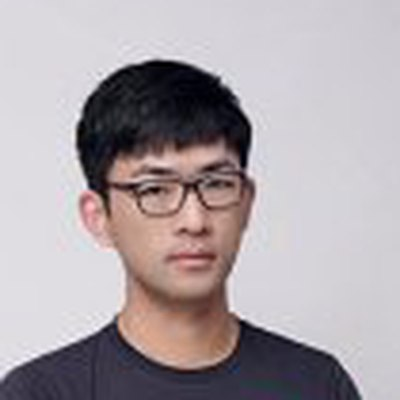
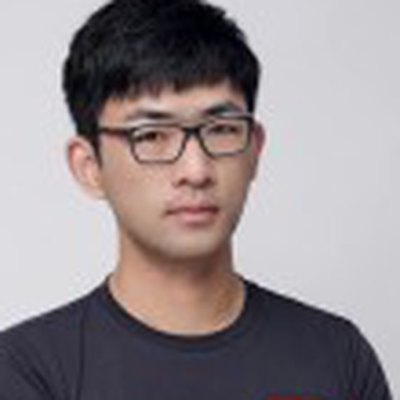
Improve Fan Zhou's photograph from the LinkedIn source
The LinkedIn page returns a login wall but still leaks the profile photo URL,
and only the 200x200 variant is signed, so the larger sizes 403.

It is the same full-body photograph Google Scholar carries, but uncropped and
at slightly better resolution, giving a 110x110 head crop against the 105x105
the Scholar thumbnail allowed. Visibly sharper at the size the committee cards
render, with the shirt logo cropped out.

Still the weakest file on the page. A real headshot from him would beat both.

Claude-Session: https://claude.ai/code/session_01BLubvrHYUMPbQ6BdkeZjr7

diff --git a/people/README.md b/people/README.md
@@ -33,7 +33,7 @@ than face-recognition is what establishes identity.
 | `steve-drew.jpg` | Supplied by the web chair |
 | `yunkai-bao.jpg` | Supplied by the web chair |
 | `tianyu-shi.jpg` | `tianyushi.org`, URL supplied by the web chair |
-| `fan-zhou.jpg` | Google Scholar profile, URL supplied by the web chair |
+| `fan-zhou.jpg` | LinkedIn profile photograph, URL supplied by the web chair |
 | `haolun-wu.jpg` | His own site, `haolun-wu.github.io` |
 | `hongtu-zhu.jpg` | UNC STOR faculty page |
 | `sheila-mcilraith.jpg` | Vector Institute team page |
@@ -48,9 +48,10 @@ Princeton returns 403 to automated fetches, so Mengdi Wang's faculty photo is
 out of reach and her lab site carries none. Jieping Ye has no official page
 serving a portrait. Peiyu Zhang has no public headshot to find.
 
-Fan Zhou's file is the weakest of the set. Google Scholar serves a 170x256
-thumbnail, so the usable crop was 105x105 before upscaling. It holds at the
-62px the page renders, but a real headshot from him would be better.
+Fan Zhou's file is the weakest of the set. Both sources carry the same
+full-body photograph at low resolution, LinkedIn's signed URL serving only the
+200x200 variant, so the usable crop is 110x110 before upscaling. It holds at
+the 62px the page renders, but a real headshot from him would be better.
 
 Anything supplied directly settles this, since the sender establishes identity.
 
